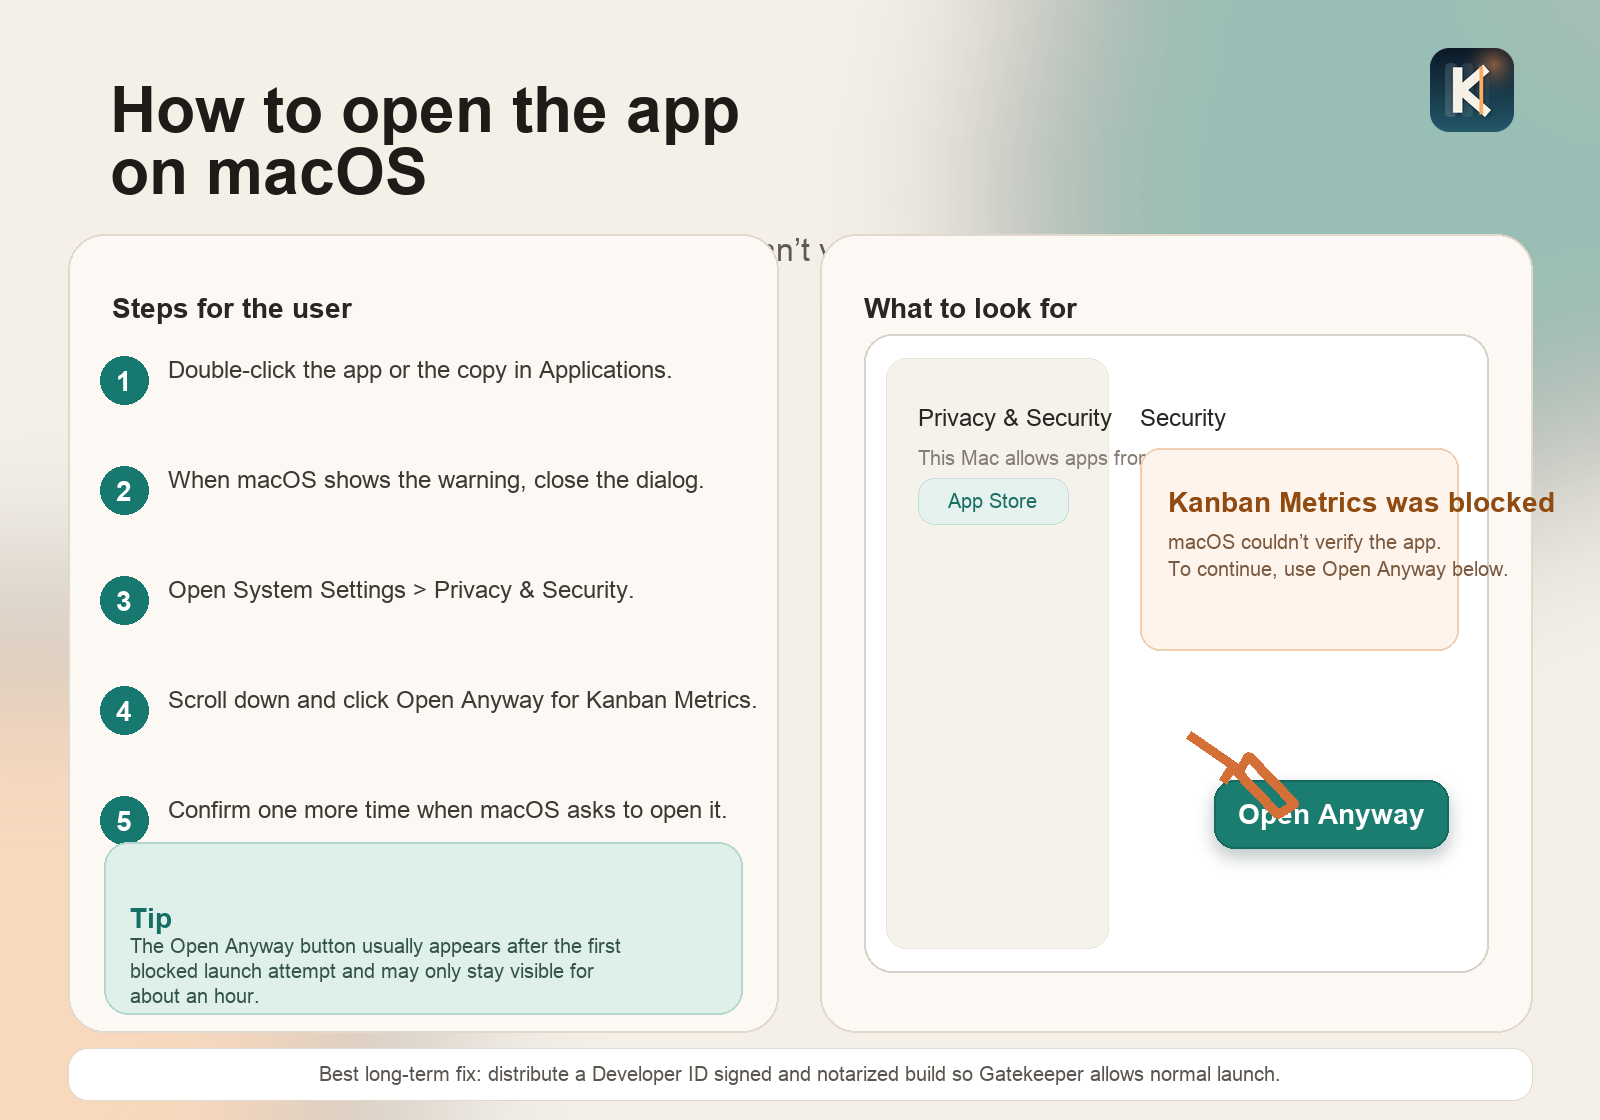
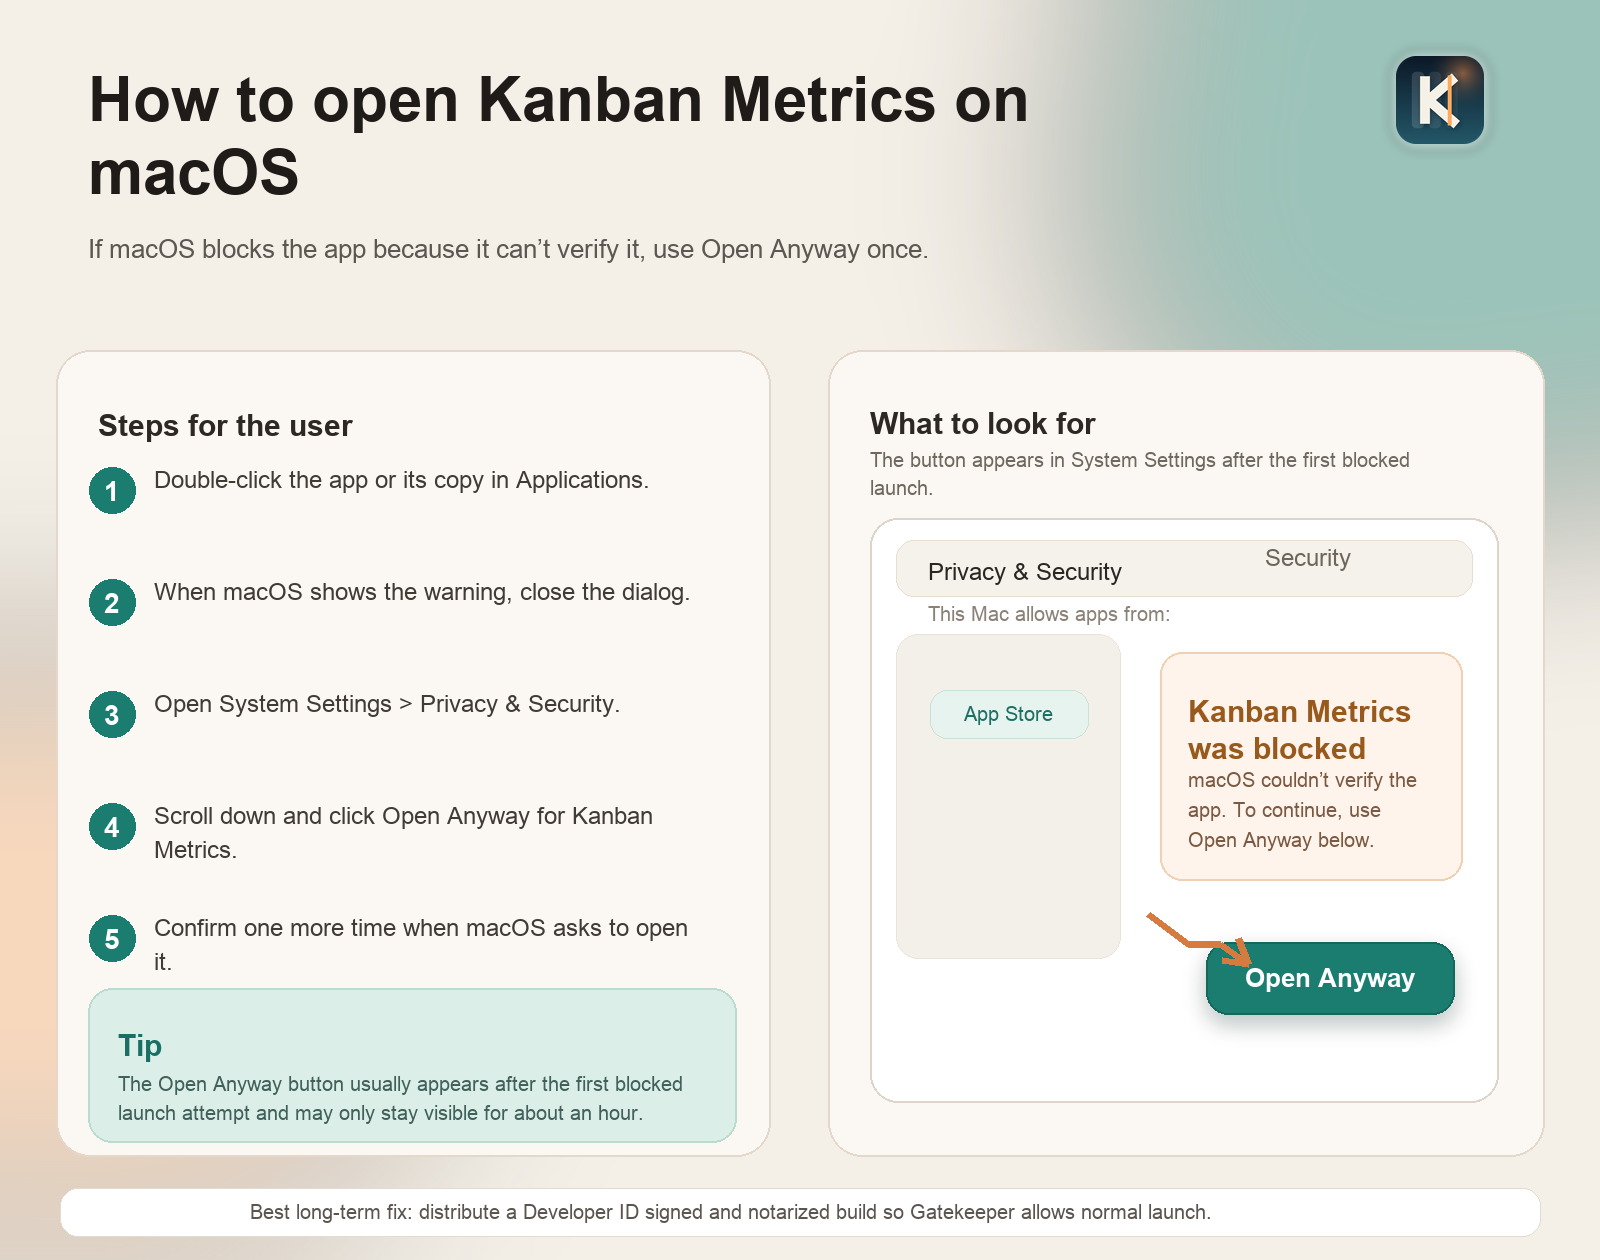
Polish macOS launch guide artwork

diff --git a/scripts/generate_macos_open_anyway_guide.py b/scripts/generate_macos_open_anyway_guide.py
@@ -36,141 +36,230 @@ def _load_font(size: int, *, bold: bool = False) -> ImageFont.FreeTypeFont | Ima
     return ImageFont.load_default()
 
 
-def _text(draw: ImageDraw.ImageDraw, xy: tuple[int, int], text: str, font, fill, *, anchor: str | None = None) -> None:
-    draw.text(xy, text, font=font, fill=fill, anchor=anchor)
-
-
 def _rounded_panel(draw: ImageDraw.ImageDraw, box: tuple[int, int, int, int], fill, outline=None, width: int = 1, radius: int = 28) -> None:
     draw.rounded_rectangle(box, radius=radius, fill=fill, outline=outline, width=width)
 
 
+def _text(draw: ImageDraw.ImageDraw, xy: tuple[int, int], text: str, font, fill, *, anchor: str | None = None) -> None:
+    draw.text(xy, text, font=font, fill=fill, anchor=anchor)
+
+
+def _wrap_text(draw: ImageDraw.ImageDraw, text: str, font, max_width: int) -> list[str]:
+    words = text.split()
+    lines: list[str] = []
+    current = ""
+    for word in words:
+        candidate = word if not current else f"{current} {word}"
+        box = draw.textbbox((0, 0), candidate, font=font)
+        if box[2] - box[0] <= max_width:
+            current = candidate
+            continue
+        if current:
+            lines.append(current)
+        current = word
+    if current:
+        lines.append(current)
+    return lines
+
+
+def _draw_wrapped_text(
+    draw: ImageDraw.ImageDraw,
+    xy: tuple[int, int],
+    text: str,
+    font,
+    fill,
+    max_width: int,
+    *,
+    line_gap: int = 8,
+) -> tuple[int, int]:
+    x, y = xy
+    lines = _wrap_text(draw, text, font, max_width)
+    ascent, descent = font.getmetrics() if hasattr(font, "getmetrics") else (20, 6)
+    line_height = ascent + descent + line_gap
+    for index, line in enumerate(lines):
+        draw.text((x, y + index * line_height), line, font=font, fill=fill)
+    total_height = max(line_height * len(lines) - line_gap, ascent + descent)
+    return max_width, total_height
+
+
 def _bullet(draw: ImageDraw.ImageDraw, x: int, y: int, number: int, font, fill_bg, fill_text) -> None:
-    radius = 24
+    radius = 23
     draw.ellipse((x - radius, y - radius, x + radius, y + radius), fill=fill_bg)
     _text(draw, (x, y + 1), str(number), font, fill_text, anchor="mm")
 
 
 def main() -> None:
-    width, height = 1600, 1120
+    width, height = 1600, 1260
     image = Image.new("RGBA", (width, height), "#f4efe7")
     draw = ImageDraw.Draw(image)
 
-    title_font = _load_font(64, bold=True)
-    subtitle_font = _load_font(32)
-    section_font = _load_font(28, bold=True)
+    title_font = _load_font(62, bold=True)
+    subtitle_font = _load_font(26)
+    section_font = _load_font(30, bold=True)
     body_font = _load_font(24)
     small_font = _load_font(20)
     bullet_font = _load_font(28, bold=True)
+    button_font = _load_font(26, bold=True)
 
-    # Background glow.
+    # Background atmosphere.
     glow = Image.new("RGBA", (width, height), (0, 0, 0, 0))
     glow_draw = ImageDraw.Draw(glow)
-    glow_draw.ellipse((1020, -120, 1650, 520), fill=(31, 126, 115, 110))
-    glow_draw.ellipse((-220, 620, 420, 1200), fill=(255, 179, 120, 95))
-    glow = glow.filter(ImageFilter.GaussianBlur(90))
+    glow_draw.ellipse((1080, -160, 1760, 520), fill=(38, 138, 126, 110))
+    glow_draw.ellipse((-220, 650, 450, 1230), fill=(255, 178, 118, 95))
+    glow = glow.filter(ImageFilter.GaussianBlur(95))
     image = Image.alpha_composite(image, glow)
     draw = ImageDraw.Draw(image)
 
     # Header.
-    draw.multiline_text(
-        (110, 74),
-        "How to open the app\non macOS",
-        font=title_font,
-        fill="#1e1b18",
-        spacing=4,
-    )
-    _text(
+    header_left = 88
+    header_top = 64
+    header_width = 1080
+    title = "How to open Kanban Metrics on macOS"
+    _, title_height = _draw_wrapped_text(
         draw,
-        (110, 232),
-        "If macOS blocks Kanban Metrics because it can’t verify it, use Open Anyway once.",
+        (header_left, header_top),
+        title,
+        title_font,
+        "#1f1b18",
+        header_width,
+        line_gap=2,
+    )
+    _draw_wrapped_text(
+        draw,
+        (header_left, header_top + title_height + 26),
+        "If macOS blocks the app because it can’t verify it, use Open Anyway once.",
         subtitle_font,
-        "#5f5a54",
+        "#5c5750",
+        1200,
+        line_gap=6,
     )
 
     if ICON_PATH.exists():
-        icon = Image.open(ICON_PATH).convert("RGBA").resize((84, 84), Image.Resampling.LANCZOS)
-        image.alpha_composite(icon, (1430, 48))
+        icon = Image.open(ICON_PATH).convert("RGBA").resize((88, 88), Image.Resampling.LANCZOS)
+        icon_shell = Image.new("RGBA", (120, 120), (0, 0, 0, 0))
+        shell_draw = ImageDraw.Draw(icon_shell)
+        shell_draw.rounded_rectangle((10, 10, 110, 110), radius=28, fill=(255, 255, 255, 70))
+        icon_shell = icon_shell.filter(ImageFilter.GaussianBlur(5))
+        image.alpha_composite(icon_shell, (1380, 40))
+        image.alpha_composite(icon, (1396, 56))
 
-    # Main split layout.
-    left_box = (68, 234, 778, 1032)
-    right_box = (820, 234, 1532, 1032)
-    _rounded_panel(draw, left_box, fill=(252, 249, 244, 240), outline="#e2d8cb", width=2, radius=36)
-    _rounded_panel(draw, right_box, fill=(252, 249, 244, 240), outline="#e2d8cb", width=2, radius=36)
+    # Main panels.
+    left_box = (56, 350, 770, 1156)
+    right_box = (828, 350, 1544, 1156)
+    _rounded_panel(draw, left_box, fill=(251, 248, 243, 240), outline="#e3d8cb", width=2, radius=34)
+    _rounded_panel(draw, right_box, fill=(251, 248, 243, 240), outline="#e3d8cb", width=2, radius=34)
 
-    # Left: steps.
-    _text(draw, (112, 292), "Steps for the user", section_font, "#2b2622")
+    # Left panel.
+    _text(draw, (98, 408), "Steps for the user", section_font, "#2d2824")
     steps = [
-        "Double-click the app or the copy in Applications.",
+        "Double-click the app or its copy in Applications.",
         "When macOS shows the warning, close the dialog.",
         "Open System Settings > Privacy & Security.",
         "Scroll down and click Open Anyway for Kanban Metrics.",
         "Confirm one more time when macOS asks to open it.",
     ]
-    y = 374
+    y = 480
     for index, step in enumerate(steps, start=1):
-        _bullet(draw, 124, y + 6, index, bullet_font, "#16786e", "#ffffff")
-        draw.multiline_text((168, y - 18), step, font=body_font, fill="#3f3934", spacing=6)
-        y += 110
+        _bullet(draw, 112, y + 10, index, bullet_font, "#1b7c70", "#ffffff")
+        _, rendered_height = _draw_wrapped_text(
+            draw,
+            (154, y - 14),
+            step,
+            body_font,
+            "#413b35",
+            540,
+            line_gap=6,
+        )
+        y += max(112, rendered_height + 48)
 
-    note_box = (104, 842, 742, 1014)
-    _rounded_panel(draw, note_box, fill="#dff0ea", outline="#b4d7cd", width=2, radius=24)
-    _text(draw, (130, 902), "Tip", section_font, "#176e64")
-    draw.multiline_text(
-        (130, 934),
-        "The Open Anyway button usually appears after the first\nblocked launch attempt and may only stay visible for\nabout an hour.",
-        font=small_font,
-        fill="#35534d",
-        spacing=6,
+    note_box = (88, 988, 736, 1142)
+    _rounded_panel(draw, note_box, fill="#dbeee8", outline="#b9dbd0", width=2, radius=24)
+    _text(draw, (118, 1028), "Tip", section_font, "#1a6f65")
+    _draw_wrapped_text(
+        draw,
+        (118, 1072),
+        "The Open Anyway button usually appears after the first blocked launch attempt and may only stay visible for about an hour.",
+        small_font,
+        "#41605a",
+        570,
+        line_gap=5,
     )
 
-    # Right: faux system settings view.
-    _text(draw, (864, 292), "What to look for", section_font, "#2b2622")
-    settings_box = (864, 334, 1488, 972)
-    _rounded_panel(draw, settings_box, fill="#ffffff", outline="#d9d2c9", width=2, radius=28)
-    sidebar_box = (886, 358, 1108, 948)
-    _rounded_panel(draw, sidebar_box, fill="#f5f2ec", outline="#ece5db", width=1, radius=20)
-    _text(draw, (918, 404), "Privacy & Security", body_font, "#2a2623")
-    _text(draw, (918, 446), "This Mac allows apps from:", small_font, "#857d73")
+    # Right panel.
+    _text(draw, (870, 406), "What to look for", section_font, "#2d2824")
+    _draw_wrapped_text(
+        draw,
+        (870, 448),
+        "The button appears in System Settings after the first blocked launch.",
+        small_font,
+        "#6f685f",
+        560,
+        line_gap=4,
+    )
+    settings_box = (870, 518, 1498, 1102)
+    _rounded_panel(draw, settings_box, fill="#ffffff", outline="#ddd5ca", width=2, radius=28)
 
-    chip_box = (918, 478, 1068, 524)
-    _rounded_panel(draw, chip_box, fill="#e6f2ee", outline="#c7ddd6", width=1, radius=16)
-    _text(draw, (993, 501), "App Store", small_font, "#1a6f65", anchor="mm")
+    # Fake settings window header.
+    topbar_box = (896, 540, 1472, 596)
+    _rounded_panel(draw, topbar_box, fill="#f5f1eb", outline="#e7ddd1", width=1, radius=18)
+    _text(draw, (928, 558), "Privacy & Security", body_font, "#2a2623")
+    _text(draw, (1308, 558), "Security", body_font, "#6e655b", anchor="mm")
+    _text(draw, (928, 602), "This Mac allows apps from:", small_font, "#8a8177")
 
-    content_x = 1140
-    _text(draw, (content_x, 404), "Security", body_font, "#2a2623")
-    warning_box = (1140, 448, 1458, 650)
-    _rounded_panel(draw, warning_box, fill="#fff4eb", outline="#f0ceb2", width=2, radius=20)
-    _text(draw, (1168, 486), "Kanban Metrics was blocked", section_font, "#8f4b11")
-    draw.multiline_text(
-        (1168, 530),
-        "macOS couldn’t verify the app.\nTo continue, use Open Anyway below.",
-        font=small_font,
-        fill="#7a5a40",
-        spacing=8,
+    sidebar_box = (896, 634, 1120, 958)
+    _rounded_panel(draw, sidebar_box, fill="#f3f0ea", outline="#ebe3d8", width=1, radius=22)
+    chip_box = (930, 690, 1088, 738)
+    _rounded_panel(draw, chip_box, fill="#e7f3ee", outline="#cae1d8", width=1, radius=17)
+    _text(draw, ((chip_box[0] + chip_box[2]) // 2, (chip_box[1] + chip_box[3]) // 2), "App Store", small_font, "#1c6f65", anchor="mm")
+
+    warning_box = (1160, 652, 1462, 880)
+    _rounded_panel(draw, warning_box, fill="#fff4eb", outline="#f1cfb2", width=2, radius=22)
+    _draw_wrapped_text(
+        draw,
+        (1188, 694),
+        "Kanban Metrics was blocked",
+        section_font,
+        "#98591c",
+        240,
+        line_gap=2,
+    )
+    _draw_wrapped_text(
+        draw,
+        (1188, 768),
+        "macOS couldn’t verify the app. To continue, use Open Anyway below.",
+        small_font,
+        "#7b5a43",
+        238,
+        line_gap=6,
     )
 
-    button_box = (1214, 780, 1448, 848)
+    button_box = (1206, 942, 1454, 1014)
     shadow = Image.new("RGBA", image.size, (0, 0, 0, 0))
     shadow_draw = ImageDraw.Draw(shadow)
-    shadow_draw.rounded_rectangle((button_box[0], button_box[1] + 8, button_box[2], button_box[3] + 8), radius=20, fill=(22, 73, 66, 70))
-    shadow = shadow.filter(ImageFilter.GaussianBlur(8))
+    shadow_draw.rounded_rectangle((button_box[0], button_box[1] + 10, button_box[2], button_box[3] + 10), radius=22, fill=(18, 76, 68, 70))
+    shadow = shadow.filter(ImageFilter.GaussianBlur(10))
     image.alpha_composite(shadow)
     draw = ImageDraw.Draw(image)
-    _rounded_panel(draw, button_box, fill="#1b7c70", outline="#156a60", width=2, radius=20)
-    _text(draw, ((button_box[0] + button_box[2]) // 2, (button_box[1] + button_box[3]) // 2), "Open Anyway", section_font, "#ffffff", anchor="mm")
+    _rounded_panel(draw, button_box, fill="#1b7c70", outline="#14695f", width=2, radius=22)
+    _text(draw, ((button_box[0] + button_box[2]) // 2, (button_box[1] + button_box[3]) // 2), "Open Anyway", button_font, "#ffffff", anchor="mm")
 
-    arrow_points = [(1188, 734), (1240, 770), (1248, 756), (1294, 804), (1278, 814), (1232, 766), (1222, 782)]
-    draw.line(arrow_points, fill="#d46f38", width=10, joint="curve")
+    arrow_color = "#d67a3f"
+    shaft_points = [(1148, 914), (1188, 944), (1220, 944), (1248, 964)]
+    draw.line(shaft_points, fill=arrow_color, width=7, joint="curve")
+    arrow_tip = (1248, 964)
+    draw.line([arrow_tip, (1222, 960)], fill=arrow_color, width=7)
+    draw.line([arrow_tip, (1238, 938)], fill=arrow_color, width=7)
 
-    footer_box = (68, 1048, 1532, 1100)
-    _rounded_panel(draw, footer_box, fill=(255, 255, 255, 190), outline="#e1d9cf", width=1, radius=20)
-    _text(
+    footer_box = (60, 1188, 1540, 1236)
+    _rounded_panel(draw, footer_box, fill=(255, 255, 255, 185), outline="#e2dbd2", width=1, radius=18)
+    _draw_wrapped_text(
         draw,
-        (800, 1074),
+        (250, 1200),
         "Best long-term fix: distribute a Developer ID signed and notarized build so Gatekeeper allows normal launch.",
         small_font,
         "#5b554f",
-        anchor="mm",
+        1100,
+        line_gap=4,
     )
 
     ASSETS_DIR.mkdir(parents=True, exist_ok=True)
